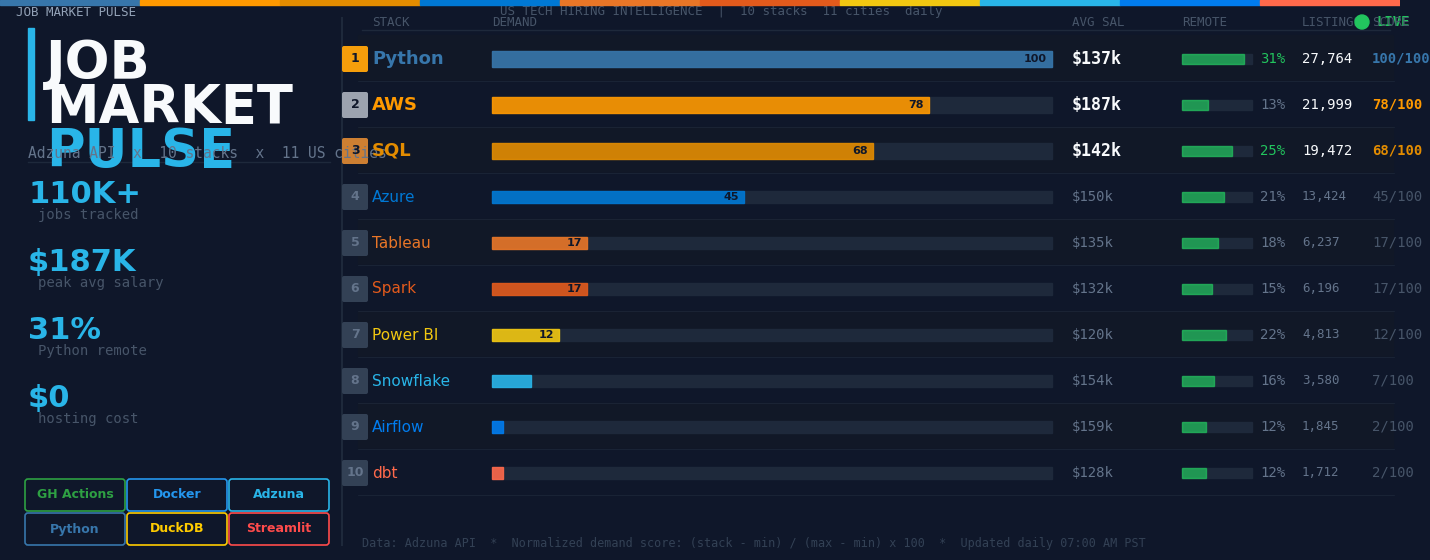
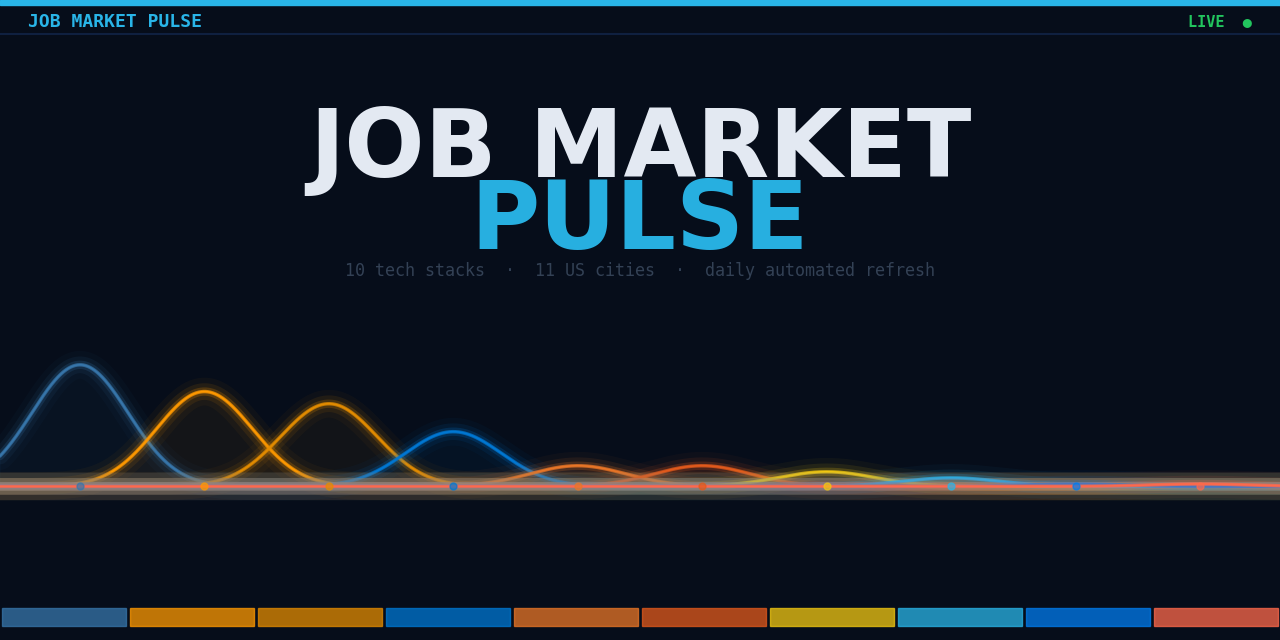
Update portfolio thumbnail to pulse monitor design (1280x640)
No numbers/axes — pure visual: 10 glowing EKG peaks colored per stack.

diff --git a/scripts/generate_thumb.py b/scripts/generate_thumb.py
@@ -1,236 +1,116 @@
 """
-Generate portfolio thumbnail — Bloomberg terminal / live market feed style.
-Unique from: weather (KPI cards + bars), uber (radar chart).
-Output: assets/portfolio_thumb.png  ~1400x560px
+Portfolio thumbnail — PULSE MONITOR design.
+Heartbeat waveform with 10 stack colors. No numbers, no axes.
+Unique vs: weather (bars), uber (radar), olist (line chart).
 """
 import matplotlib
 matplotlib.use("Agg")
 import matplotlib.pyplot as plt
-import matplotlib.patches as mpatches
-from matplotlib.patches import FancyBboxPatch
 import numpy as np
+from matplotlib.patches import FancyBboxPatch
 
-W, H = 1400, 560
+W, H = 1280, 640
 fig = plt.figure(figsize=(W / 100, H / 100), dpi=100)
-fig.patch.set_facecolor("#0f172a")
+fig.patch.set_facecolor("#060d1a")
 ax = fig.add_axes([0, 0, 1, 1])
 ax.set_xlim(0, W); ax.set_ylim(0, H); ax.axis("off")
-ax.set_facecolor("#0f172a")
+ax.set_facecolor("#060d1a")
 
-STACK_COLORS = {
-    "Python":   "#3776AB", "AWS":      "#FF9900", "SQL":      "#E38C00",
-    "Azure":    "#0078D4", "Tableau":  "#E97627", "Spark":    "#E25A1C",
-    "Power BI": "#F2C811", "Snowflake":"#29B5E8", "Airflow":  "#017CEE",
-    "dbt":      "#FF694B",
-}
+# Stack data: color, demand score (controls peak height)
+STACKS = [
+    ("Python",    "#3776AB", 100),
+    ("AWS",       "#FF9900",  78),
+    ("SQL",       "#E38C00",  68),
+    ("Azure",     "#0078D4",  45),
+    ("Tableau",   "#E97627",  17),
+    ("Spark",     "#E25A1C",  17),
+    ("Power BI",  "#F2C811",  12),
+    ("Snowflake", "#29B5E8",   7),
+    ("Airflow",   "#017CEE",   2),
+    ("dbt",       "#FF694B",   2),
+]
 
-# ── Top multi-color accent bar ────────────────────────────────────────────────
-seg_w = W / 10
-for i, c in enumerate(STACK_COLORS.values()):
-    ax.add_patch(plt.Rectangle((i * seg_w, H - 5), seg_w, 5, color=c, zorder=5))
+# ── Subtle scanline texture ───────────────────────────────────────────────────
+for y in range(0, H, 4):
+    ax.plot([0, W], [y, y], color="#ffffff", linewidth=0.3, alpha=0.018)
 
-# ── LIVE indicator (top right) ────────────────────────────────────────────────
-ax.add_patch(plt.Circle((W - 38, H - 22), 7, color="#22c55e", zorder=6))
-ax.text(W - 24, H - 22, "LIVE", color="#22c55e", fontsize=10,
-        fontweight="bold", fontfamily="monospace", va="center")
+# ── TOP: project title ────────────────────────────────────────────────────────
+# Cyan accent bar at very top
+ax.add_patch(plt.Rectangle((0, H - 5), W, 5, color="#29B5E8"))
 
-# ── Top bar: section headers ───────────────────────────────────────────────────
-bar_y = H - 12
-ax.text(16, bar_y, "JOB MARKET PULSE",
-        color="#94a3b8", fontsize=9, fontfamily="monospace", va="center")
-ax.text(500, bar_y, "US TECH HIRING INTELLIGENCE  |  10 stacks  11 cities  daily",
-        color="#475569", fontsize=9, fontfamily="monospace", va="center")
+# Corner label
+ax.text(28, H - 22, "JOB MARKET PULSE",
+        color="#29B5E8", fontsize=13, fontweight="bold",
+        fontfamily="monospace", va="center")
+ax.text(W - 28, H - 22, "LIVE  ●",
+        color="#22c55e", fontsize=11, fontweight="bold",
+        fontfamily="monospace", va="center", ha="right")
 
-# ═══════════════════════════════════════════════════════════════════════════════
-# LEFT PANEL  x=0..340
-# ═══════════════════════════════════════════════════════════════════════════════
-lx = 28
+# Horizontal rule below header
+ax.plot([0, W], [H - 34, H - 34], color="#0f2040", linewidth=1.5)
 
-# Cyan accent stripe
-ax.add_patch(plt.Rectangle((lx, H - 120), 6, 92, color="#29B5E8"))
-
-# Title
-ax.text(lx + 18, H - 38, "JOB", color="#f8fafc",
-        fontsize=38, fontweight="black", va="top")
-ax.text(lx + 18, H - 82, "MARKET", color="#f8fafc",
-        fontsize=38, fontweight="black", va="top")
-ax.text(lx + 18, H - 126, "PULSE", color="#29B5E8",
-        fontsize=38, fontweight="black", va="top")
+# ── CENTER: big title block ───────────────────────────────────────────────────
+cy = H * 0.72
+ax.text(W / 2, cy + 28, "JOB MARKET",
+        color="#f0f6ff", fontsize=68, fontweight="black",
+        ha="center", va="center", alpha=0.95)
+ax.text(W / 2, cy - 44, "PULSE",
+        color="#29B5E8", fontsize=68, fontweight="black",
+        ha="center", va="center", alpha=0.97)
 
 # Tagline
-ax.text(lx, H - 146,
-        "Adzuna API  x  10 stacks  x  11 US cities",
-        color="#64748b", fontsize=10.5, va="top", fontfamily="monospace")
+ax.text(W / 2, cy - 92,
+        "10 tech stacks  ·  11 US cities  ·  daily automated refresh",
+        color="#334155", fontsize=12, ha="center", va="center",
+        fontfamily="monospace")
 
-# Divider
-ax.plot([lx, 330], [H - 162, H - 162], color="#1e293b", linewidth=1)
+# ── WAVEFORM: full-width EKG-style pulse ──────────────────────────────────────
+baseline_y = H * 0.24
+waveform_h = H * 0.19   # max peak height
 
-# Big KPI stats
-kpis = [
-    ("110K+", "jobs tracked"),
-    ("$187K", "peak avg salary"),
-    ("31%",   "Python remote"),
-    ("$0",    "hosting cost"),
-]
-ky = H - 180
-for val, label in kpis:
-    ax.text(lx, ky, val, color="#29B5E8", fontsize=22,
-            fontweight="bold", va="top")
-    ax.text(lx + 10, ky - 28, label, color="#475569",
-            fontsize=10, va="top", fontfamily="monospace")
-    ky -= 68
+x = np.linspace(0, W, 4000)
 
-# Tech badges (2-row grid)
-badges = [
-    ("Python",     "#3776AB"), ("DuckDB",   "#FFCC00"),
-    ("Streamlit",  "#FF4B4B"), ("GH Actions","#2EA043"),
-    ("Docker",     "#2496ED"), ("Adzuna",   "#29B5E8"),
-]
-bx_start = lx
-by_start = 28
-for i, (label, color) in enumerate(badges):
-    col = i % 3; row = i // 3
-    bx2 = bx_start + col * 102
-    by2 = by_start + row * 34
-    ax.add_patch(FancyBboxPatch((bx2, by2 - 10), 94, 26,
-        boxstyle="round,pad=3", linewidth=1.2,
-        edgecolor=color, facecolor="#0f172a"))
-    ax.text(bx2 + 47, by2 + 3, label, color=color,
-            fontsize=9, fontweight="bold", ha="center", va="center")
+# Each stack has a Gaussian peak; space evenly across width
+centers = np.linspace(80, W - 80, len(STACKS))
+sigma = 48
 
-# ── Vertical separator ─────────────────────────────────────────────────────────
-sep_x = 342
-ax.plot([sep_x, sep_x], [15, H - 18], color="#1e293b", linewidth=1.5)
+# Thin baseline
+ax.plot([0, W], [baseline_y, baseline_y], color="#0a2040", linewidth=1.2, zorder=1)
 
-# ═══════════════════════════════════════════════════════════════════════════════
-# RIGHT PANEL — Market Ticker Board  x=358..1390
-# ═══════════════════════════════════════════════════════════════════════════════
-rx = 362
+for i, ((name, color, score), cx) in enumerate(zip(STACKS, centers)):
+    peak_height = waveform_h * score / 100
+    bump = peak_height * np.exp(-0.5 * ((x - cx) / sigma) ** 2)
 
-# Column headers
-col_name   = rx + 10
-col_bar    = rx + 130
-col_salary = rx + 710
-col_remote = rx + 820
-col_jobs   = rx + 940
-col_score  = rx + 1010
+    # Glow layers (outer → inner)
+    for lw, alpha in [(20, 0.04), (12, 0.09), (6, 0.20), (2.5, 0.75), (1.2, 1.0)]:
+        ax.plot(x, baseline_y + bump, color=color,
+                linewidth=lw, alpha=alpha, zorder=2, solid_capstyle="round")
 
-hdr_y = H - 22
-ax.text(col_name,   hdr_y, "STACK",          color="#475569", fontsize=9, fontfamily="monospace", va="center")
-ax.text(col_bar,    hdr_y, "DEMAND",         color="#475569", fontsize=9, fontfamily="monospace", va="center")
-ax.text(col_salary, hdr_y, "AVG SAL",        color="#475569", fontsize=9, fontfamily="monospace", va="center")
-ax.text(col_remote, hdr_y, "REMOTE",         color="#475569", fontsize=9, fontfamily="monospace", va="center")
-ax.text(col_jobs,   hdr_y, "LISTINGS",       color="#475569", fontsize=9, fontfamily="monospace", va="center")
-ax.text(col_score,  hdr_y, "SCORE",          color="#475569", fontsize=9, fontfamily="monospace", va="center")
+    # Filled area under peak (soft glow below)
+    ax.fill_between(x, baseline_y, baseline_y + bump,
+                    color=color, alpha=0.06, zorder=1)
 
-# Header underline
-ax.plot([rx, rx + 1028], [H - 30, H - 30], color="#1e293b", linewidth=1)
+    # Stack color dot on baseline
+    ax.plot(cx, baseline_y, "o", color=color, markersize=5, zorder=4, alpha=0.7)
 
-# Data rows
-rows = [
-    # name,    score, jobs,  salary, remote_pct
-    ("Python",   100, 27764,  137,  31),
-    ("AWS",       78, 21999,  187,  13),
-    ("SQL",       68, 19472,  142,  25),
-    ("Azure",     45, 13424,  150,  21),
-    ("Tableau",   17,  6237,  135,  18),
-    ("Spark",     17,  6196,  132,  15),
-    ("Power BI",  12,  4813,  120,  22),
-    ("Snowflake",  7,  3580,  154,  16),
-    ("Airflow",    2,  1845,  159,  12),
-    ("dbt",        2,  1712,  128,  12),
-]
+# Flatline segments between peaks (connect baseline dots)
+ax.plot([0, centers[0] - sigma * 2], [baseline_y, baseline_y],
+        color="#1a4060", linewidth=1, zorder=1)
+ax.plot([centers[-1] + sigma * 2, W], [baseline_y, baseline_y],
+        color="#1a4060", linewidth=1, zorder=1)
 
-bar_max_px = 560
-row_h = 46
-top_y = H - 36
+# ── BOTTOM: stack color strip ─────────────────────────────────────────────────
+strip_y = 14
+strip_h = 18
+seg_w = W / len(STACKS)
+for i, (_, color, _) in enumerate(STACKS):
+    # Badge-style rounded strip
+    ax.add_patch(plt.Rectangle((i * seg_w + 2, strip_y), seg_w - 4, strip_h,
+        color=color, alpha=0.75))
 
-rank_colors = ["#F59E0B", "#9CA3AF", "#CD7F32"]  # gold, silver, bronze
-
-for i, (name, score, jobs, salary, remote) in enumerate(rows):
-    ry_center = top_y - i * row_h - row_h / 2
-    color = STACK_COLORS[name]
-    is_top3 = i < 3
-
-    # Alternating row background
-    bg_color = "#111827" if i % 2 == 0 else "#0f172a"
-    ax.add_patch(plt.Rectangle((rx - 4, top_y - i * row_h - row_h + 2),
-                               1035, row_h - 1,
-                               color=bg_color, zorder=0))
-
-    # Rank badge (top 3 get colored, rest grey)
-    rank_col = rank_colors[i] if i < 3 else "#334155"
-    ax.add_patch(FancyBboxPatch((col_name - 28, ry_center - 11), 22, 22,
-        boxstyle="round,pad=2", linewidth=0,
-        facecolor=rank_col, zorder=2))
-    ax.text(col_name - 17, ry_center, f"{i+1}",
-            color="#0f172a" if i < 3 else "#64748b",
-            fontsize=9, fontweight="bold",
-            ha="center", va="center", zorder=3)
-
-    # Stack name
-    ax.text(col_name, ry_center, name,
-            color=color, fontsize=13 if is_top3 else 11,
-            fontweight="bold" if is_top3 else "normal",
-            va="center")
-
-    # Demand bar — background track
-    bar_h_px = 16 if is_top3 else 12
-    bw = bar_max_px * score / 100
-    bar_y_pos = ry_center - bar_h_px / 2
-    ax.add_patch(plt.Rectangle((col_bar, bar_y_pos), bar_max_px, bar_h_px,
-        color="#1e293b", zorder=1))
-    # Fill
-    ax.add_patch(plt.Rectangle((col_bar, bar_y_pos), bw, bar_h_px,
-        color=color, alpha=0.9, zorder=2))
-    # Score label inside bar
-    if bw > 40:
-        ax.text(col_bar + bw - 5, ry_center, f"{score}",
-                color="#0f172a", fontsize=8, fontweight="bold",
-                ha="right", va="center", zorder=3)
-
-    # Salary
-    sal_col = "#f8fafc" if is_top3 else "#64748b"
-    ax.text(col_salary, ry_center, f"${salary}k",
-            color=sal_col, fontsize=12 if is_top3 else 10,
-            fontweight="bold" if is_top3 else "normal",
-            fontfamily="monospace", va="center")
-
-    # Remote % with mini color bar
-    remote_bar_w = 70 * remote / 35  # max ~35%
-    ax.add_patch(plt.Rectangle((col_remote, ry_center - 5), 70, 10,
-        color="#1e293b", zorder=1))
-    ax.add_patch(plt.Rectangle((col_remote, ry_center - 5), remote_bar_w, 10,
-        color="#22c55e", alpha=0.7, zorder=2))
-    ax.text(col_remote + 78, ry_center, f"{remote}%",
-            color="#22c55e" if remote >= 25 else "#64748b",
-            fontsize=10, fontfamily="monospace", va="center")
-
-    # Listings count
-    ax.text(col_jobs, ry_center, f"{jobs:,}",
-            color=sal_col, fontsize=10 if is_top3 else 9,
-            fontfamily="monospace", va="center")
-
-    # Demand score
-    ax.text(col_score, ry_center, f"{score}/100",
-            color=color if is_top3 else "#475569",
-            fontsize=10, fontfamily="monospace",
-            fontweight="bold" if is_top3 else "normal",
-            va="center")
-
-    # Row bottom divider
-    ax.plot([rx - 4, rx + 1032],
-            [top_y - i * row_h - row_h + 1, top_y - i * row_h - row_h + 1],
-            color="#1e293b", linewidth=0.5)
-
-# Bottom footer
-ax.text(rx, 10,
-        "Data: Adzuna API  *  Normalized demand score: (stack - min) / (max - min) x 100  *  Updated daily 07:00 AM PST",
-        color="#334155", fontsize=8.5, fontfamily="monospace", va="bottom")
-
-# ── Save ───────────────────────────────────────────────────────────────────────
+# ── Save ──────────────────────────────────────────────────────────────────────
 out = "assets/portfolio_thumb.png"
 plt.savefig(out, dpi=100, bbox_inches="tight",
-            facecolor="#0f172a", pad_inches=0)
+            facecolor="#060d1a", pad_inches=0)
 plt.close()
-print("Portfolio thumbnail saved to", out)
+print("Saved:", out)